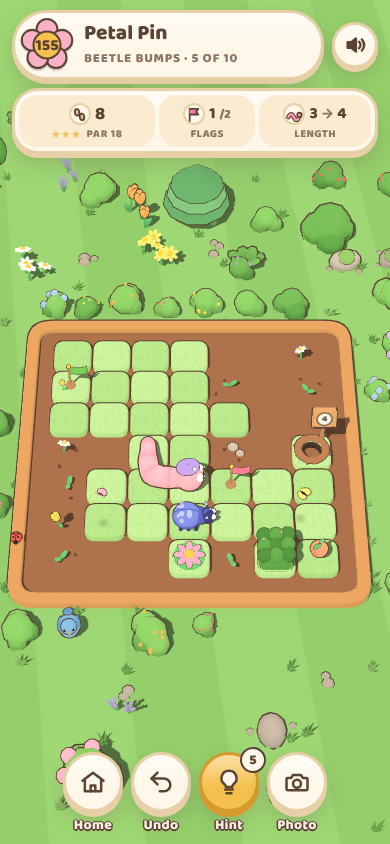
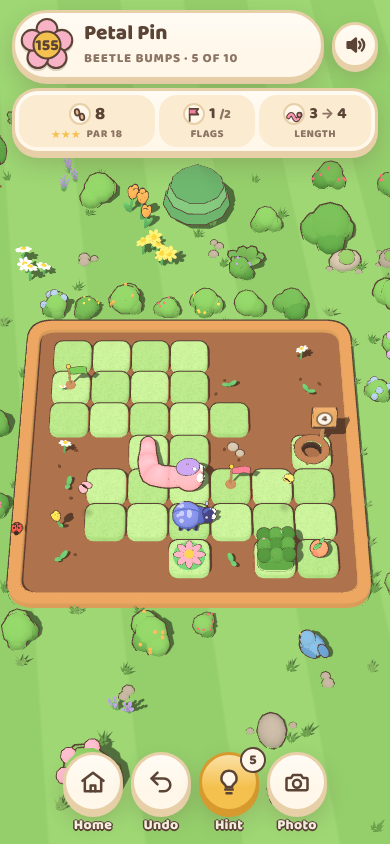
Home: the daily card uses the calendar sticker, like its app shortcut
The hand-drawn CSS calendar with the date in it is gone; the card shows the same calendar sticker as the Daily
shortcut icon, matching the Meadow card's tulip. Install screenshots refreshed.

Claude-Session: https://claude.ai/code/session_018b3cP1De1FMBieJja8GZr1

diff --git a/src/shell.html b/src/shell.html
@@ -392,7 +392,6 @@ nav{display:flex;justify-content:center;align-items:flex-end;gap:12px}
 .big .go{flex:none;width:34px;height:34px;border-radius:50%;display:grid;place-items:center;background:var(--leaf);border:3px solid var(--leaf-dark);color:var(--on-accent);font:800 26px/1 var(--fd);padding-bottom:3px;box-shadow:0 3px 0 var(--leaf-dark)}
 .mode-ico{flex:none;width:52px;height:52px;border-radius:18px;display:grid;place-items:center;border:2px solid var(--edge)}
 .daily-ico{background:var(--tint-berry)}
-.daily-ico .cal{width:34px;height:36px;border-radius:10px;background:var(--on-accent);border:2px solid var(--deep);border-top:8px solid var(--berry);display:grid;place-items:center;font:800 16px/1 var(--fd);color:var(--deep)}
 #dailyBtn.done .daily-ico{background:var(--done)}
 .week{display:flex;gap:6px;margin-top:3px}
 /* Play: the worm's speech bubble, chapter pips on Continue, Daily and Meadow side by side, the closest badge */
@@ -833,7 +832,7 @@ body.big-text .hud-stats{zoom:.9}
         <button class="play" id="homePlay"><span class="play-ico" aria-hidden="true"><svg width="30" height="30" viewBox="0 0 24 24"><path d="M8 5.5v13l10.5-6.5z" style="fill:var(--on-accent);stroke:var(--on-accent)" stroke-width="2" stroke-linejoin="round"/></svg></span><span class="pt"><b id="playTitle">Play</b><small id="playSub">Patch 1</small><span class="ch-pips" id="playPips" aria-hidden="true"></span></span></button>
         <div class="home-duo">
         <button class="big card mini" id="dailyBtn">
-    <span class="mode-ico daily-ico" aria-hidden="true"><span class="cal" id="dailyDay">11</span></span>
+    <span class="mode-ico daily-ico" aria-hidden="true" data-art="calendar" data-size="32"></span>
     <span class="bt"><b>Daily patch <span id="dailySeeds"></span></b><small id="dailySub">One patch for everyone today</small><span class="week" id="dailyWeek" aria-hidden="true"></span></span><span class="go" aria-hidden="true"><svg class="ui-ic" width="20" height="20" viewBox="0 0 24 24" fill="none" stroke="currentColor" stroke-width="3" stroke-linecap="round" stroke-linejoin="round" aria-hidden="true"><path d="M9.5 5.5L16 12l-6.5 6.5"/></svg></span>
   </button>
         <button class="big card mini" id="meadowBtn">
@@ -985,7 +984,6 @@ body.big-text .hud-stats{zoom:.9}
 // The home screen is in the page from the start, so it shows before three.js and the garden are ready.
 // Fill in the numbers the game left last time; the game redraws them properly a moment later.
 try{ var b=JSON.parse(localStorage.getItem('squirm-boot')||'null'), $b=function(i){ return document.getElementById(i); };
-  $b('dailyDay').textContent=new Date().getDate();
   if(b){ $b('homeStars').innerHTML=b.stars||''; $b('playTitle').textContent=b.title; $b('playSub').textContent=b.sub; if(b.day===new Date().toDateString()){ $b('dailySub').textContent=b.daily; $b('dailyBtn').classList.toggle('done',!!b.done); } } }catch(e){}
 </script>
 <script src="vendor/three.min.js"></script>

diff --git a/src/game/home/tabs.js b/src/game/home/tabs.js
@@ -22,7 +22,7 @@ document.querySelectorAll('.tabbar .tab').forEach(b=>b.onclick=()=>{ ensureAudio
 function renderHome(){
   $('homeStars').innerHTML=`${ICON.star}<span>${starTotal()}</span>`; $('homeSeeds').innerHTML=`${art('hintseed',24)}<span>${progress.seeds}</span>`;
   $('dailySeeds').innerHTML=seedChip(2); $('meadowSeeds').innerHTML=seedChip(progress.meadowDay!==todayKey()?2:1);
-  const k=todayKey(), dr=progress.daily.results[k]; $('dailyDay').textContent=new Date().getDate();
+  const k=todayKey(), dr=progress.daily.results[k];
   const mid=new Date(); mid.setHours(24,0,0,0); const left=Math.max(1,Math.ceil((mid-new Date())/60000)), wait=left>=60?`${Math.floor(left/60)}h ${left%60}m`:`${left}m`;
   $('dailyBtn').classList.toggle('done',!!dr); $('dailySeeds').hidden=!!dr; $('dailySub').textContent = dr ? `Done in ${dr.moves} moves. Next one in ${wait}.` : (progress.daily.streak?`Keep your ${progress.daily.streak} day streak going`:'One patch for everyone today');
   $('dailyWeek').innerHTML=[6,5,4,3,2,1,0].map(n=>{ const d=new Date(); d.setDate(d.getDate()-n); return `<i class="${progress.daily.results[dateKey(d)]?'on':''} ${n?'':'today'}"></i>`; }).join('');
